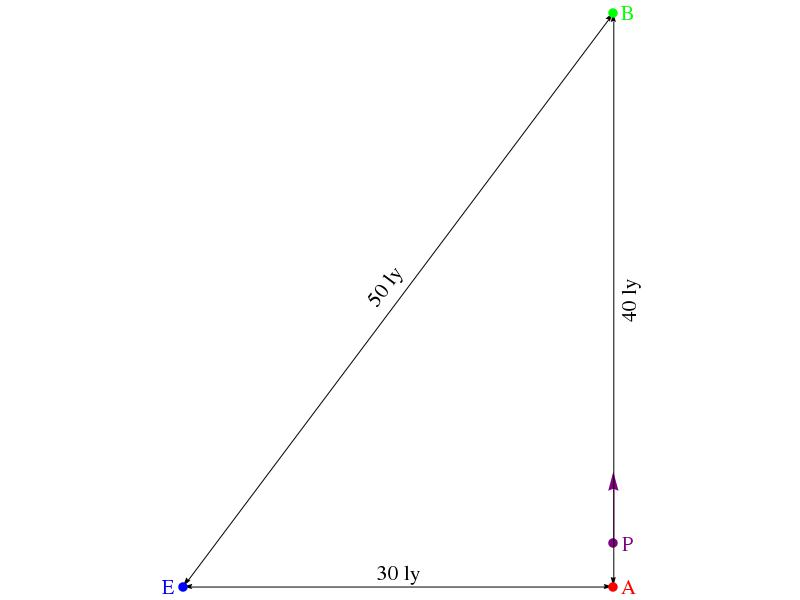
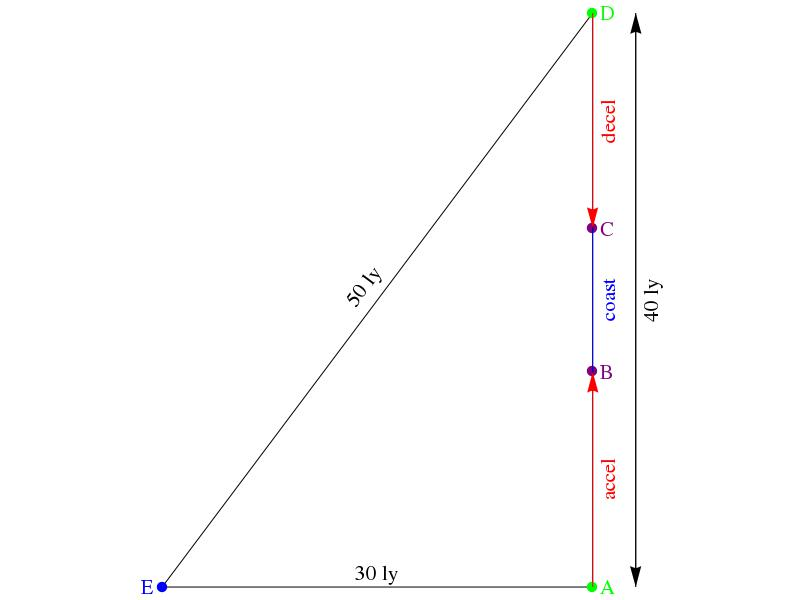
Checkpoint

diff --git a/STACK/bc-solve-astronomy-13817.m b/STACK/bc-solve-astronomy-13817.m
@@ -10,27 +10,53 @@ example case to better show the effects of relativity.
 All of the equations here come from
 http://physics.stackexchange.com/questions/240342
 
-As you move from `A` to `B`, your speed (relative to `A`) `t` seconds
+As you move from A to B, your speed (relative to A) $t$ seconds
 after blastoff will be:
 
 $\text{speed}(a,t)=\frac{a t}{\sqrt{a^2 t^2+1}}$
 
-where `a` is your acceleration per second as a fraction of the speed
+and your distance will be:
+
+$\text{dist}(a,t)=\frac{\sqrt{a^2 t^2+1}}{a}$
+
+where $a$ is your acceleration per second as a fraction of the speed
 of light. In your case, this will be $\frac{g}{c}$ or about
 $\frac{9.8}{299792458} = \text{3.27}*10^{-8}$, but we'll leave it as
-`a` for generality.
+$a$ for generality.
 
-From `A`'s point of view, you'll reach your coasting speed `s` when
+From A's point of view, you'll reach B (the point where you start coasting) at:
 
-$\text{coasttime}(a,s)=\frac{s}{\sqrt{a^2-a^2 s^2}}$
+$\text{timeA2B}(a,s)=\frac{s}{\sqrt{a^2-a^2 s^2}}$
 
 at which point your distance from A will be:
 
-$\text{coastdist}(a,s)=\frac{\sqrt{\frac{1}{1-s^2}}}{a}$
+$\text{distA2B}(a,s)=\frac{\sqrt{\frac{1}{1-s^2}}}{a}$
 
-You then coast for the following amount of time before decelerating:
+where $s$ is your coasting speed as a fraction of the speed of light
+(in your case, this is $0.6$)
 
-$\text{coastfor}(a,s,d)=\frac{d-\frac{2 \sqrt{\frac{1}{1-s^2}}}{a}}{s}$
+You then coast from B to C, and the time/distance you travel (in A's
+reference frame) is:
+
+$\text{timeB2C}(a,s,d)=\frac{d-\frac{2 \sqrt{\frac{1}{1-s^2}}}{a}}{s}$
+
+$\text{distB2C}(a,s,d)=d-\frac{2 \sqrt{\frac{1}{1-s^2}}}{a}$
+
+where $d$ is the total distance you're traveling in light seconds. In
+your case this is 40 light years * 31556952 seconds/year or 1262278080
+light seconds.
+
+Note that if $s>\frac{\sqrt{a^2 d^2-4}}{a d}$, there is no solution to
+the problem: by the time you reach coasting speed, you will already be
+more than halfway to your destination and not be able to decelerate
+enough to land at speed 0.
+
+Fortunately, this does not happen in either of our test cases.
+
+
+
+
+TODO: put speed disclaimer here (can't go faster than... )
 
 where `d` is the distance you're traveling in light seconds.
 
@@ -38,7 +64,6 @@ You then decelerate for the same amount of time (in `A`'s reference
 frame as you accelerated earlier):
 
 $\text{coasttime}(a,s)=\frac{s}{\sqrt{a^2-a^2 s^2}}$
-
 
 
 TODO: disclaim "seconds" (any unit of time consistent)
@@ -119,13 +144,29 @@ TODO: note there is a maximal `s` for the 40 ly in question
 
 TODO: note that you don't gain much in `A`'s reference frame, but do in your own for .6 -> .995
 
+MATHEMATICA NOTES:
+
+conds = {t>0, a>0, v>0, v<1}
+
+speed[a_,t_] = a*t/Sqrt[(a*t)^2+1]
+dist[a_,t_] = Integrate[speed[a,t],t]
+
+timeA2B[a_,s_] = Solve[speed[a,t]==s,t][[2,1,2]]
+distA2B[a_,s_] = FullSimplify[dist[a,timeA2B[a,s]],conds]
+
+timeB2C[a_,s_,d_] = FullSimplify[(d-2*distA2B[a,s])/s, conds]
+distB2C[a_,s_,d_] = FullSimplify[timeB2C[a,s,d]*s, conds]
+
+Solve[timeB2C[a,s,d]==0,s][[2]]
+
+(* example of how to print *)
+
+HoldForm[dist[a,t]] == dist[a,t]
 
 secinyear = 86400*365.2425
 g = 98/10;
 c = 299792458;
 conds = {a>0,t>0,s>0,d>0}
-speed[a_,t_] = a*t/Sqrt[(a*t)^2+1]
-dist[a_,t_] = Integrate[speed[a,t],t]
 coasttime[a_,s_] = Solve[speed[a,t]==s,t][[2,1,2]]
 coastdist[a_,s_] =  FullSimplify[dist[a,coasttime[a,s]],conds]
 
@@ -227,7 +268,6 @@ showit
 
 
 a = 10/300/10^6
-conds = {t>0, a>0, v>0, v<1}
 speed[t_] = Tanh[a*t]
 distance[t_] = Integrate[speed[t],t]
 rate[t_] = FullSimplify[1/factor[speed[t]], conds]
